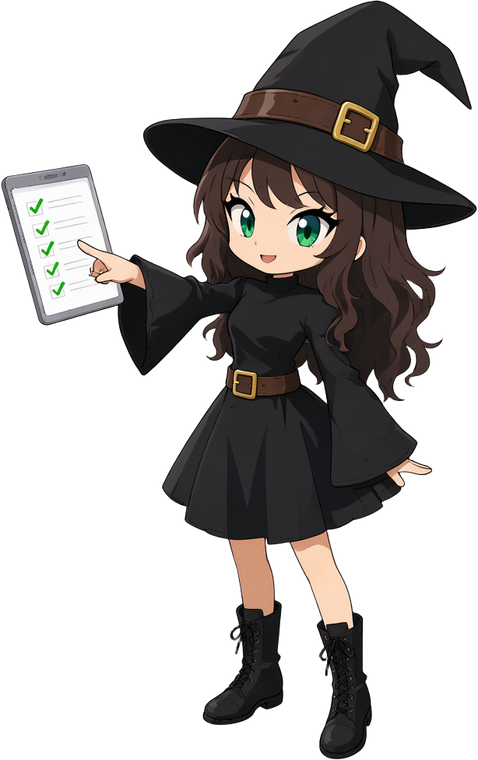
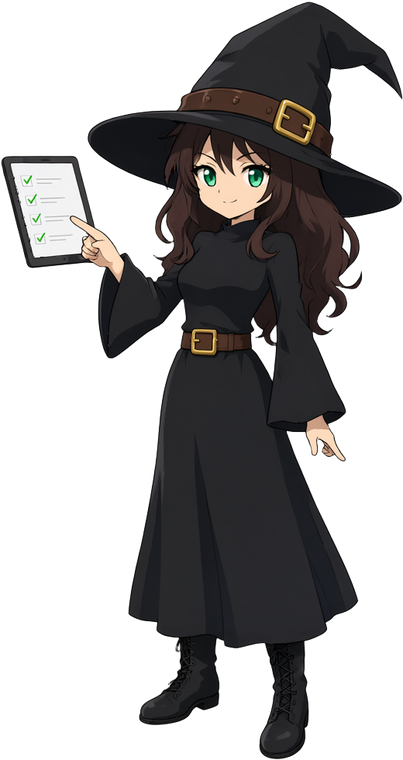
Long dress on every Kiki service illustration
The approved master wears an ankle-length dress; earlier edits drifted to shorter
skirts, so the set read as different outfits. This pass keeps the same master
reference but states the dress length explicitly, and every frame is regenerated
against it.

- Every skirt now reaches the boots; no bare legs, same belt, hat and boots.
- Verified that no drawing touches the canvas edge, so no hat is cropped.
- Alpha and edge cleanup unchanged (model matte + restored dark hat tip + colour
  bleed).

diff --git a/src/api/assets.rs b/src/api/assets.rs
@@ -349,115 +349,115 @@ pub const SERVICE_ART: [ServiceArt; 19] = [
     ServiceArt {
         slug: "ai-assistants",
         image: include_bytes!("../../assets/services/ai-assistants.png"),
-        width: 362,
+        width: 290,
         height: 760,
     },
     ServiceArt {
         slug: "ai-automation",
         image: include_bytes!("../../assets/services/ai-automation.png"),
-        width: 533,
+        width: 524,
         height: 760,
     },
     ServiceArt {
         slug: "ai-bots",
         image: include_bytes!("../../assets/services/ai-bots.png"),
-        width: 393,
+        width: 359,
         height: 760,
     },
     ServiceArt {
         slug: "ai-mcp",
         image: include_bytes!("../../assets/services/ai-mcp.png"),
-        width: 377,
+        width: 351,
         height: 760,
     },
     ServiceArt {
         slug: "ai-vision",
         image: include_bytes!("../../assets/services/ai-vision.png"),
-        width: 313,
+        width: 287,
         height: 760,
     },
     ServiceArt {
         slug: "comfyui-media",
         image: include_bytes!("../../assets/services/comfyui-media.png"),
-        width: 340,
+        width: 316,
         height: 760,
     },
     ServiceArt {
         slug: "design-figma",
         image: include_bytes!("../../assets/services/design-figma.png"),
-        width: 326,
+        width: 298,
         height: 760,
     },
     ServiceArt {
         slug: "desktop-apps",
         image: include_bytes!("../../assets/services/desktop-apps.png"),
-        width: 481,
+        width: 456,
         height: 760,
     },
     ServiceArt {
         slug: "email-campaigns",
         image: include_bytes!("../../assets/services/email-campaigns.png"),
-        width: 559,
+        width: 509,
         height: 760,
     },
     ServiceArt {
         slug: "fullstack-any",
         image: include_bytes!("../../assets/services/fullstack-any.png"),
-        width: 404,
+        width: 349,
         height: 760,
     },
     ServiceArt {
         slug: "legacy-refactor",
         image: include_bytes!("../../assets/services/legacy-refactor.png"),
-        width: 400,
+        width: 313,
         height: 760,
     },
     ServiceArt {
         slug: "local-private-dev",
         image: include_bytes!("../../assets/services/local-private-dev.png"),
-        width: 454,
+        width: 466,
         height: 760,
     },
     ServiceArt {
         slug: "mobile-apps",
         image: include_bytes!("../../assets/services/mobile-apps.png"),
-        width: 324,
+        width: 286,
         height: 760,
     },
     ServiceArt {
         slug: "qa-testing",
         image: include_bytes!("../../assets/services/qa-testing.png"),
-        width: 478,
+        width: 403,
         height: 760,
     },
     ServiceArt {
         slug: "small-fixes",
         image: include_bytes!("../../assets/services/small-fixes.png"),
-        width: 382,
+        width: 308,
         height: 760,
     },
     ServiceArt {
         slug: "support",
         image: include_bytes!("../../assets/services/support.png"),
-        width: 335,
+        width: 276,
         height: 760,
     },
     ServiceArt {
         slug: "sysadmin-devops",
         image: include_bytes!("../../assets/services/sysadmin-devops.png"),
-        width: 457,
+        width: 411,
         height: 760,
     },
     ServiceArt {
         slug: "voice-ai",
         image: include_bytes!("../../assets/services/voice-ai.png"),
-        width: 321,
+        width: 244,
         height: 760,
     },
     ServiceArt {
         slug: "web-any",
         image: include_bytes!("../../assets/services/web-any.png"),
-        width: 461,
+        width: 340,
         height: 760,
     },
 ];
